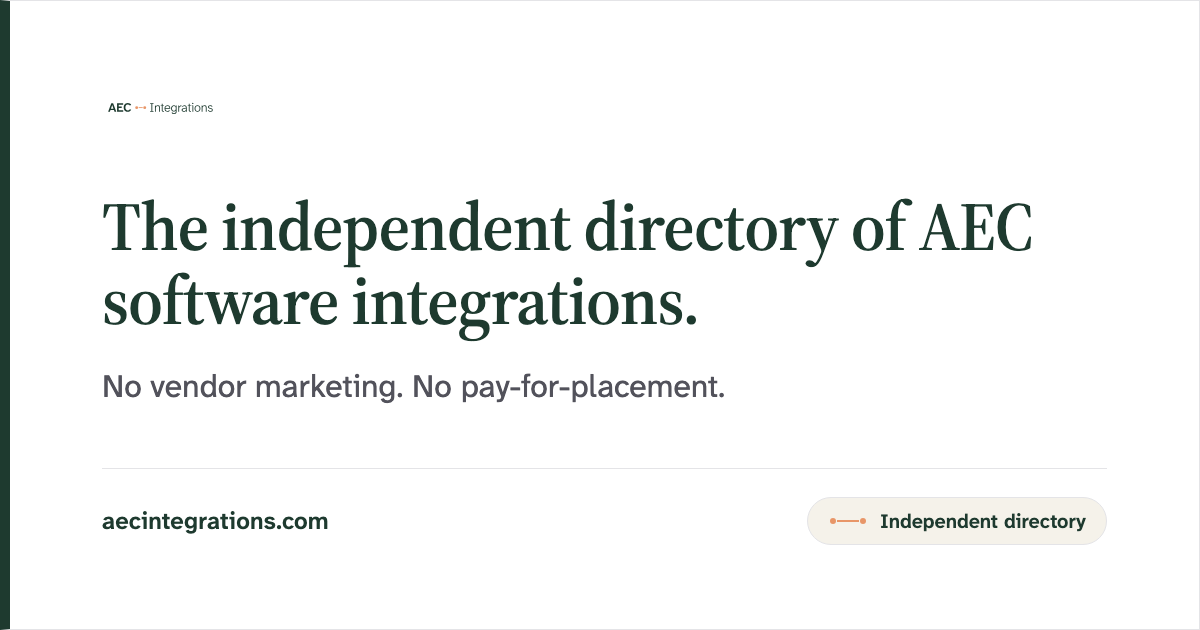
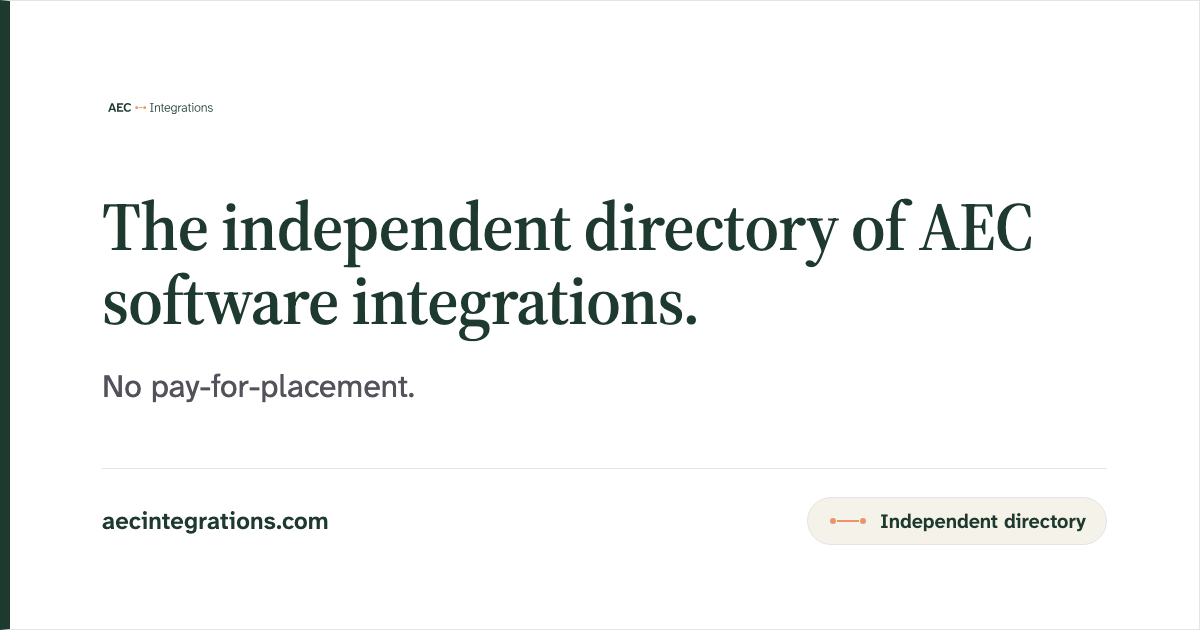
AECI-2233: tie the ranking promise to order, keep "No pay-for-placement" as a tagline (#1535)
Ruling 68 (option C). Full sentences about ranking on the home, about and
methodology pages now use ruling 65's order wording. "Position", "boosted by
spend" and "influences position" are gone from public copy. The share image
and welcome email drop "No vendor marketing". Records ruling 68 and draft Q75.

Changed region(s): [[0.1233, 0.6032, 0.6167, 0.6333]]

diff --git a/apps/web/src/app/home/home-trust-pillars.ts b/apps/web/src/app/home/home-trust-pillars.ts
@@ -101,12 +101,15 @@ export class HomeTrustPillars {
   /** Framing line under the headline. */
   protected readonly lede = $localize`:@@home.trust.lede:Every decision we make, especially how we make money, must protect trust. If we break that trust, we have nothing.`;
 
-  /** The three commitments. Source: pitch deck Slide 10 ("Trust Is the Product"). */
+  /**
+   * The three commitments. Source: pitch deck Slide 10 ("Trust Is the Product"). The rankings
+   * body is ruling 65's order sentence (AECI-2233, ruling 68), never a promise about position.
+   */
   protected readonly pillars: readonly Pillar[] = [
     {
       id: 'rankings',
       title: $localize`:@@home.trust.rankings.title:Never sell rankings`,
-      body: $localize`:@@home.trust.rankings.body:Search results and listings are earned, not bought. Payment never influences position. Ever.`,
+      body: $localize`:@@home.trust.rankings.body:Rankings are algorithmic. Payment never changes the order in which products are listed or returned in search.`,
     },
     {
       id: 'transparent',
@@ -121,5 +124,5 @@ export class HomeTrustPillars {
   ];
 
   /** Closing reinforcement (no competitor call-outs on the public site). */
-  protected readonly closing = $localize`:@@home.trust.closing:We will earn revenue from vendors who want to be found, never from changing what you see.`;
+  protected readonly closing = $localize`:@@home.trust.closing:We will earn revenue from vendors who want to be found, never from changing the order of results.`;
 }

diff --git a/apps/web/src/app/about/about.ts b/apps/web/src/app/about/about.ts
@@ -64,7 +64,7 @@ import { BoneBand } from '../shared/bone-band/bone-band';
           >
             AEC Integrations is an independent directory and review platform for the software
             integrations that architecture, engineering, and construction teams depend on. No
-            pay-for-placement, no blurred line between editorial and revenue.
+            pay-for-placement. Payment never changes the order of results.
           </p>
         </div>
       </aec-bone-band>
@@ -130,8 +130,8 @@ import { BoneBand } from '../shared/bone-band/bone-band';
                     We seed the catalog from public research. The vendor that offers an integration
                     can take it over and keep its details current, and every claim stays labeled
                     “Listed by AEC Integrations” until the vendors involved confirm it. Vendors
-                    never pay to rank, never pay to remove a review, and never set their own
-                    position. Rankings are algorithmic, always.
+                    never pay to rank, never pay to remove a review, and never set the order of
+                    results. Rankings are algorithmic, always.
                   </p>
                 </li>
               </ul>

diff --git a/apps/web/src/app/home/home-why.component.spec.ts b/apps/web/src/app/home/home-why.component.spec.ts
@@ -90,7 +90,7 @@ describe('HomeWhy', () => {
     const points = Array.from(card.querySelectorAll('[data-testid="home-why-ideas"] > li'));
     expect(points.map((c) => text(c.querySelector('h4')))).toEqual([
       'Every connection is documented',
-      'Position is earned, never bought',
+      'No pay-for-placement',
       'Organized the way AEC works',
     ]);
     // Secondary ink on Forest is the measured on-brand secondary, never text-secondary.
@@ -109,6 +109,14 @@ describe('HomeWhy', () => {
   it('says no pay-for-placement exactly once in the band', () => {
     const matches = text(setup()).match(/pay-for-placement/gi) ?? [];
     expect(matches).toHaveLength(1);
+  });
+
+  it('ties the ranking promise to order, not to position or spend (AECI-2233, ruling 68)', () => {
+    const t = text(setup());
+    expect(t).toContain(
+      'Payment never changes the order in which products are listed or returned in search.',
+    );
+    expect(t).not.toMatch(/boosted by spend|position is earned|never bought/i);
   });
 
   it('claims no reviews or ratings anywhere outside the cited market figures (AECI-1557)', () => {

diff --git a/apps/web/src/app/home/home-why.ts b/apps/web/src/app/home/home-why.ts
@@ -221,7 +221,10 @@ export class HomeWhy {
     },
   ];
 
-  /** What AECi does instead. The second idea is the band's one no-pay-for-placement line. */
+  /**
+   * What AECi does instead. The second idea is the band's one no-pay-for-placement line: the
+   * phrase as its title, and ruling 65's order sentence as its body (AECI-2233, ruling 68).
+   */
   protected readonly ideas: readonly Idea[] = [
     {
       id: 'documented',
@@ -232,8 +235,8 @@ export class HomeWhy {
     {
       id: 'earned',
       icon: 'scale',
-      title: $localize`:@@home.why.idea.earned.title:Position is earned, never bought`,
-      body: $localize`:@@home.why.idea.earned.body:Rankings are algorithmic. Listings are never boosted by spend, and there is no pay-for-placement.`,
+      title: $localize`:@@home.why.idea.earned.title:No pay-for-placement`,
+      body: $localize`:@@home.why.idea.earned.body:Rankings are algorithmic. Payment never changes the order in which products are listed or returned in search.`,
     },
     {
       id: 'aec-native',

diff --git a/apps/api/src/lib/email.ts b/apps/api/src/lib/email.ts
@@ -3199,7 +3199,7 @@ export function sendMailingListWelcomeEmail(
   const base = siteUrl(c.env);
   const browseUrl = base ? `${base}/products` : null;
   const intro =
-    'Thanks for signing up. AEC Integrations is an independent directory and review platform for the software used across architecture, engineering, and construction. No vendor marketing, no pay-for-placement.';
+    'Thanks for signing up. AEC Integrations is an independent directory and review platform for the software used across architecture, engineering, and construction. No pay-for-placement.';
   const what =
     'We organize tools by workflow stage and discipline, the way AEC actually works, not by generic software categories. And we keep product quality separate from onboarding experience, so you can judge software on what matters to your projects.';
   const browseLead =

diff --git a/apps/web/src/app/home/home-trust-pillars.component.spec.ts b/apps/web/src/app/home/home-trust-pillars.component.spec.ts
@@ -46,6 +46,15 @@ describe('HomeTrustPillars', () => {
     expect(card.textContent).not.toContain('We will earn revenue');
   });
 
+  it('ties the rankings commitment to order, not to position (AECI-2233, ruling 68)', () => {
+    const text = setup().textContent ?? '';
+    expect(text).toContain(
+      'Payment never changes the order in which products are listed or returned in search.',
+    );
+    expect(text).not.toMatch(/influences position|not bought/i);
+    expect(text).toContain('never from changing the order of results.');
+  });
+
   it('is a static band — no rotation, no controls', () => {
     const h = setup();
     // All content present at once; no single-slide panel and no buttons to drive.

diff --git a/apps/web/src/app/methodology/methodology.ts b/apps/web/src/app/methodology/methodology.ts
@@ -111,7 +111,7 @@ export class MethodologyPage {
   constructor() {
     this.meta.setStaticPageMeta({
       title: $localize`:@@meta.methodologyTitle:How we research listings · AEC Integrations`,
-      description: $localize`:@@meta.methodologyDescription:How AEC Integrations researches listings: what we list, where integration data comes from, what vendor confirmation means, and why position is never for sale.`,
+      description: $localize`:@@meta.methodologyDescription:How AEC Integrations researches listings: what we list, where integration data comes from, what vendor confirmation means, and why payment never changes the order of results.`,
       canonical: canonicalUrl('/methodology'),
     });
   }

diff --git a/apps/web/src/app/about/about.component.spec.ts b/apps/web/src/app/about/about.component.spec.ts
@@ -28,6 +28,9 @@ describe('AboutPage', () => {
     const { host } = setup();
     expect(host.querySelector('h1')?.textContent).toContain("couldn't find anywhere else");
     expect(host.textContent).toContain('No pay-for-placement');
+    // AECI-2233 (ruling 68): the full sentence is tied to order, never to position.
+    expect(host.textContent).toContain('Payment never changes the order of results.');
+    expect(host.textContent).not.toContain('their own position');
     // AECI-1316: vendors write some product copy, so the claim is gone.
     expect(host.textContent).not.toContain('vendor marketing');
   });

diff --git a/apps/web/scripts/home-og-template.html b/apps/web/scripts/home-og-template.html
@@ -176,7 +176,7 @@
 
       <div class="body">
         <div class="headline">The independent directory of AEC software integrations.</div>
-        <div class="subline">No vendor marketing. No pay-for-placement.</div>
+        <div class="subline">No pay-for-placement.</div>
       </div>
 
       <div class="footer">

diff --git a/docs/LEGAL_COUNSEL_RECORD.md b/docs/LEGAL_COUNSEL_RECORD.md
@@ -2075,12 +2075,14 @@ Rulings 52 to 58 were first recorded on a branch as 43 to 49, before rulings 43 
 65. **Final wording of the ranking promise (Q71, 2026-11-24).** Counsel's replacement is used, widened with "such as" because counsel gave general guidance and named only trades and audiences: "Payment never changes the order in which products are listed or returned in search. A paid plan lets a vendor edit more of its own listing, such as the trades, audiences and phases tagged on its product, which can help it match more searches and appear on more category pages." It replaces "You cannot buy a position" and "That comes from what the listing says, not from the payment" in ruling 52's draft. It is text item 14.8, for the Vendor Terms, the Managed plan agreement, the Terms of Service, How ranking works and `/methodology`. Counsel has not seen the widened sentence, so it goes on the sign-off brief. *Applied 2026-11-26 (AECI-2230):* in place in every document named, with no version bump. The section heading in both agreements is now "Plans, listing order and reviews", and each keeps "No plan changes whether a review is published." The new heading and that reworded sentence go on the sign-off brief too.
 66. **How a vendor's removal of a Sync Service integration runs (Q73, Q74, AECI-2035, 2026-11-26).** A removal takes effect at once, with no waiting period and no review when it is sent. The vendor picks a reason from a fixed list. We record the reason and the time, and send both to the Sync Service at once with how to object. The public sees nothing: the integration is gone, with no note and no reason. We look at an objection on three grounds only: the removal came from an account that should not have had access, it named the wrong product, or its reason is plainly false on its face, for example where the vendor's own public materials show it supports the integration. We may also end a removal where the vendor's claim ends or is suspended, or where the law requires it. The Listing Accuracy Policy carries counsel's three disclosures: a listing is discretionary and revocable, a product's vendor may remove a listing tied to its product even when it is accurate, and we do not guarantee a third party's integration stays listed. Counsel's "no guarantee of neutrality" is not adopted.
 67. **Breach notice: the processor clock, the agreements and geolocation (Q41, 2026-11-26).** Three points, ruled from the statute text and public guidance without a new counsel question. First, if a breach is at a processor, our 30 days count from the day the processor determined it, not the day it told us, because Fla. Stat. 501.171 does not say which and that is the strict reading. Second, the six processor agreements that promise only "without undue delay" are accepted as they stand. The 10-day duty is the processor's own under 501.171(6)(a), the agreements are self-serve, and we subscribe to the security notices of Supabase, Resend and Cloudflare. Third, the statute's "personal information" also covers a name with "any information regarding an individual's geolocation", which the Q41 answer did not list and the statute does not define. We treat a name with an IP address or any location as notifiable. The breach runbook is updated. No legal page changes.
+68. **"No pay-for-placement" stays as a tagline; the full sentences are tied to order (AECI-2233, Q62, Q71, 2026-11-26).** Chris chose option C, after comparing the three wordings in place. The short phrase "No pay-for-placement" stays on the home hero, the home and about descriptions, the home share image and the welcome email. It also becomes the title of the home argument band's second idea, replacing "Position is earned, never bought". Every full sentence about ranking now uses ruling 65's first sentence: "Payment never changes the order in which products are listed or returned in search." That replaces "Listings are never boosted by spend" on the home page and "Payment never influences position. Ever." on the about page. The about page's closing line ends "never from changing the order of results" instead of "never from changing what you see", because a paid profile does change what a reader sees. The about page also says "Payment never changes the order of results", and vendors "never set the order of results" instead of "their own position". The methodology description says "why payment never changes the order of results" instead of "position is never for sale". "No vendor marketing" left the share image and the welcome email, completing AECI-1316. Counsel has not been asked about "placement", so the tagline goes to counsel as Q75. If counsel objects, each tagline place takes the order wording instead. The internal rule in `PRODUCT.md` and `CLAUDE.md` does not change: no paid field feeds the ranking score. The `/methodology` heading and the agreements stay with AECI-2230.
 
 Earlier rulings that shaped the questions: no arbitration or class-action waiver (AECI-312, 2026-10-14); replies to reviews open to every claimed company (2026-11-05); AECi is the website's abbreviation, never a party name (2026-11-04); 'subscription' in all copy, 'license' in code and the database (AECI-1609).
 
 ## Open items for the next counsel batch
 
 - **Q66 follow-up: confirm the widened audit fallback wording (raised 2026-11-26, AECI-1971, ruling 60).** Counsel suggested the fallback "or four years, if there is no acceptance record". We widened it, because a company deletion record can belong to a granted subscription that was never accepted. The v1.1 draft, not yet in force, now reads in "Retention": "Four kinds of audit record are kept longer, for as long as the record they belong to: an agreement acceptance, a Terms of Service acceptance or a granted subscription. If there is no such record, they are kept for four years. The four kinds are the record that an agreement was accepted, the record that the Terms of Service were accepted, the record that an account was deleted, which dates the start of the six-year period, and the record that a company was deleted from the site, which dates the six-year period when the company's record is gone." Question: does the widened sentence still give the clear fallback you asked for?
+- **Q75 (draft): does "No pay-for-placement" still hold as a tagline when a paid plan can put a product on more category pages? (raised 2026-11-26, AECI-2233, ruling 68).** Q71 rejected "You cannot buy a position" because a vendor can pay its way onto more category pages. The site keeps "No pay-for-placement" as a short tagline, and every full sentence says "Payment never changes the order in which products are listed or returned in search." The question asks whether a reader would take "placement" as the same promise as "position", and how the tagline should read if so. The full text is in the AECI-2233 comment.
 - **Ruling 48 follow-up: acceptance records with no vendor account end (raised 2026-11-18, AECI-1914).** Some acceptance records have no vendor account whose end could start the six-year clock: a claim that was never approved, a listing request, and a company we deleted from the site. We now delete each six years after the latest date we hold for it. That is the claim's close, the acceptance itself, or the company's deletion. We keep the audit record of the company's deletion for as long as the acceptance records it dates. The v1.1 draft, not yet in force, now adds to "Retention" under "Agreement acceptance records": "If a claim is never approved, we keep its acceptance record for six years after the claim is closed. Where a record has no such date, we keep it for six years after the latest date we hold for it." The audit record bullet now reads: "Four kinds of audit record are kept longer, for as long as the acceptance record they belong to: the record that an agreement was accepted, the record that the Terms of Service were accepted, the record that an account was deleted, which dates the start of the six-year period, and the record that a company was deleted from the site, which dates the six-year period when the company's record is gone." Questions: (a) Are the two new acceptance sentences clear and enough? (b) Is the fourth kind of audit record described clearly enough?
 - **Q27c and Q23a follow-up: the legal hold clause and the audit records kept past four years (raised 2026-11-17, AECI-1638).** After Q27(c) we stated two periods. Audit records are kept four years after the action. Acceptance records are kept six years after the vendor account ends, or five years after a granted subscription ends, if later. A daily job now deletes both when the period ends. Following Q23(a) and Q25(c), the job stops while a litigation hold is open. A hold covers one vendor or everything, and we place it with a written reason. Some audit records must also outlive four years, because they prove an acceptance record that is still kept: the record of the acceptance itself, of a Terms of Service acceptance, and of an account deletion, which starts the six-year clock for the Terms acceptance. We also keep the record of each deletion run, which holds only row ids, so our tamper-evident acceptance chain (ruling 15) can show why a row is gone. The v1.1 draft, not yet in force, now reads in "Retention": "Agreement acceptance records: … kept for as long as the company has a vendor account, and for six years after it ends, or for five years after a granted subscription ends, if later, or longer while a legal hold requires it, as evidence of the agreement, even if you delete your account." And: "Audit record for abuse prevention: the record of who submitted or changed what, kept for four years after the action. We pause this deletion while we are under a legal duty to preserve records, for example after receiving legal process. Three kinds of audit record are kept longer, for as long as the acceptance record they belong to: the record that an agreement was accepted, the record that the Terms of Service were accepted, and the record that an account was deleted, which dates the start of the six-year period." Questions: (a) Is "or longer while a legal hold requires it" on the acceptance record, and "We pause this deletion while we are under a legal duty to preserve records" on the audit record, enough disclosure, or must the policy say more about holds? (b) Is the "Three kinds of audit record are kept longer" sentence a clear enough exception to the four years? (c) Does keeping the deletion-run record, row ids only, with no end date need disclosure?
 - **Q38 follow-up: how long may we keep a copyright notice? (raised 2026-11-17, AECI-1665).** We keep each notice and counter-notice for three years after the matter closes, including after the account involved is deleted. Three years is the limitation period for a civil copyright claim (17 U.S.C. 507(b)). Is that the right period, and may we keep the sender's and the account holder's details that long after deletion? Is the Privacy Policy wording right? It reads: "Copyright notices and counter-notices: for three years after we close the matter, as evidence if a copyright claim is brought. We keep them even if you delete your account. They are then no longer linked to your account." Fallback: a shorter period counsel names, with the deletion job (AECI-1905) set to match.

diff --git a/docs/STAGE_2_5_SPEC.md b/docs/STAGE_2_5_SPEC.md
@@ -38,7 +38,7 @@ Build sequence (from the issue, unchanged):
    **✅ Built, both parts (AECI-636, 2026-09-22).** Part A shipped `listing_tier` on the records, and every environment was backfilled to full coverage on 2026-09-21 and 2026-09-22. Part B flipped `customRanking` and retired both replicas and the D1 list sort in code. One departure is ruled, not accidental. `products` keeps `desc(review_count)` as its second signal, by Chris's ruling of 2026-09-22 on AECI-636. That departs from the 2026-08-23 decision that reviews rank on a shrunk average and never on a raw count. It is inert today. `vendors` ranks on `desc(listing_tier)` alone. Nothing is on the quota yet. Six detached indexes still need deleting by hand, and preview's apply then landed the app at 20 of 20 *(historical: the preview prefix is retired, AECI-1268, 2026-10-10)* (`SEARCH_RANKING.md` §5a). The rollout per environment is Chris's. The home-page "Most integrated product" and "Most active category" cards (D2) were deleted with the home stats cards in AECI-1554 (2026-10-31), which settles D2.
 2. **Product change 2** — the one schema addition: `limits` (three-state: documented / attested-none-known / absent) on integrations; add the `file-transfer` mechanism kind at rank 1; compute `evidence_tier`; `integrations` index → `desc(evidence_tier), desc(mechanism_rank)`; fold the same shape into the §3.4 pairs plan.
 3. **Publish the ranking-method page** — the plain-language twin of `SEARCH_RANKING.md` (parameters and relative importance, no algorithm, no numbers). Publishing before 1–2 would publish count, the thing being retired. Its natural home is the trust section of the AECI-634 `/docs` area ("how ranking works" is a named first-class page in `STAGE_2_PRODUCT_DOCS_SPEC.md`) — AECI-634 is Stage 2 work running in the same window (see §9); if the docs shell has landed by this step, publish there, otherwise ship standalone and fold in when it does. **Tracked as AECI-1249 (2026-10-08):** the page is `/docs/trust/how-ranking-works`, built in the AECI-634 trust tranche on the shell from AECI-1248. **✅ Written and published there by AECI-1249 (2026-10-08), pending Chris's sign-off of the wording before merge.** It names the parameters in words only: text match first, then listing completeness, then (products only) the number of published reviews, the ruled departure above. It also covers the browse-list sorts and the home-page modules, and it states what no plan buys. Two things it does not settle. Product change 2 is unbuilt, so the page names no integration-ordering signal; that is true today only because the `/search` Integrations tab is hidden, and when step 2 ships or the tab returns, the page changes in the same PR. The D2 home cards left the home in AECI-1554, and the page's home section was updated in the same change.
-4. **Release the blocked copy** — the in-repo line (`home-trust-pillars.ts`, `@@home.trust.closing`, shown on `/about` — "vendors who want to maintain their own listing, never from changing what you see"; the home's copy of it went with `home-differentiation.ts` in AECI-1554), the `/about` negation-stack rewrite, plus the marketing-repo vendor-facing explanation (contingent until 1–3 ship).
+4. **Release the blocked copy** — the in-repo line (`home-trust-pillars.ts`, `@@home.trust.closing`, shown on `/about` — "vendors who want to maintain their own listing, never from changing what you see". Since AECI-2233 (ruling 68) it ends "never from changing the order of results"; the home's copy of it went with `home-differentiation.ts` in AECI-1554), the `/about` negation-stack rewrite, plus the marketing-repo vendor-facing explanation (contingent until 1–3 ship).
 
 **Do-not-do traps carry verbatim** from the issue: no plan-status-keyed tiers, no freshness in ranking until updates are free, no engagement in ordering, no precise published numbers, no paid fast lane, no gate creep.
 

diff --git a/docs/STAGE_1_SPEC.md b/docs/STAGE_1_SPEC.md
@@ -256,7 +256,7 @@ Admin auth is a simple role check on the `profiles` table. No separate admin UI 
 
 There is no separate marketing page: the app home **is** the marketing page. It carries two jobs in one publication. The directory job serves the ready visitor with search, browse and live data. The persuasion job serves the cold visitor with the argument for AECi. Marketing copy is written in the app's editorial voice (`PRODUCT.md` voice) and the design tokens (`DESIGN.md`). It is never pasted from the retired landing page.
 
-**Canonical positioning.** The home's one-liner is **"The independent directory of AEC software integrations. No pay-for-placement."** It said "No vendor marketing" too until AECI-1316 (2026-10-14) dropped it: vendors write product descriptions and "How teams use it", so the claim was untrue. Three live expressions ladder up to it: the hero lede (`home-hero.ts`), the footer tagline (`site-footer.ts`), and the home `<meta>` description (`setHomeMeta`, `core/meta.service.ts`). No launch copy claims integrations are "verified" — nothing is dual-vendor-verified at Stage 1 (§1 out-of-scope; §4.2 verified-badge placeholder). The home makes **no reviews claim** until the first approved review exists (AECI-1557): it never says AECi rates, reviews or verifies anything.
+**Canonical positioning.** The home's one-liner is **"The independent directory of AEC software integrations. No pay-for-placement."** It said "No vendor marketing" too until AECI-1316 (2026-10-14) dropped it: vendors write product descriptions and "How teams use it", so the claim was untrue. Three live expressions ladder up to it: the hero lede (`home-hero.ts`), the footer tagline (`site-footer.ts`), and the home `<meta>` description (`setHomeMeta`, `core/meta.service.ts`). No launch copy claims integrations are "verified" — nothing is dual-vendor-verified at Stage 1 (§1 out-of-scope; §4.2 verified-badge placeholder). The home makes **no reviews claim** until the first approved review exists (AECI-1557): it never says AECi rates, reviews or verifies anything. Ruling 68 (AECI-2233, 2026-11-26) keeps "No pay-for-placement" as the short tagline, subject to counsel question Q75. Every full sentence about ranking uses ruling 65's order wording: "Payment never changes the order in which products are listed or returned in search." No public line promises a position, says listings are "never boosted by spend", or says payment "never influences position".
 
 **Canonical section order.** Directory first, then the argument. Since AECI-1792 (mock-up 9, `docs/design/mockups/redesign-2026-11/mockups/9-home.html`) the hero is the page's one Bone (`--accent-warm`) band (`aec-bone-band`, `DESIGN.md` §2 clash 2). Every band after it is white (`--surface-base`), separated by a hairline top border. Every band sits on the 1328px page wrap (`BAND_WRAP_CLASS`). Cards are the shared `aecCard`: white fill, the card shadow, 24px radius. The one exception is "What we do instead", the page's one Forest feature card.
 
